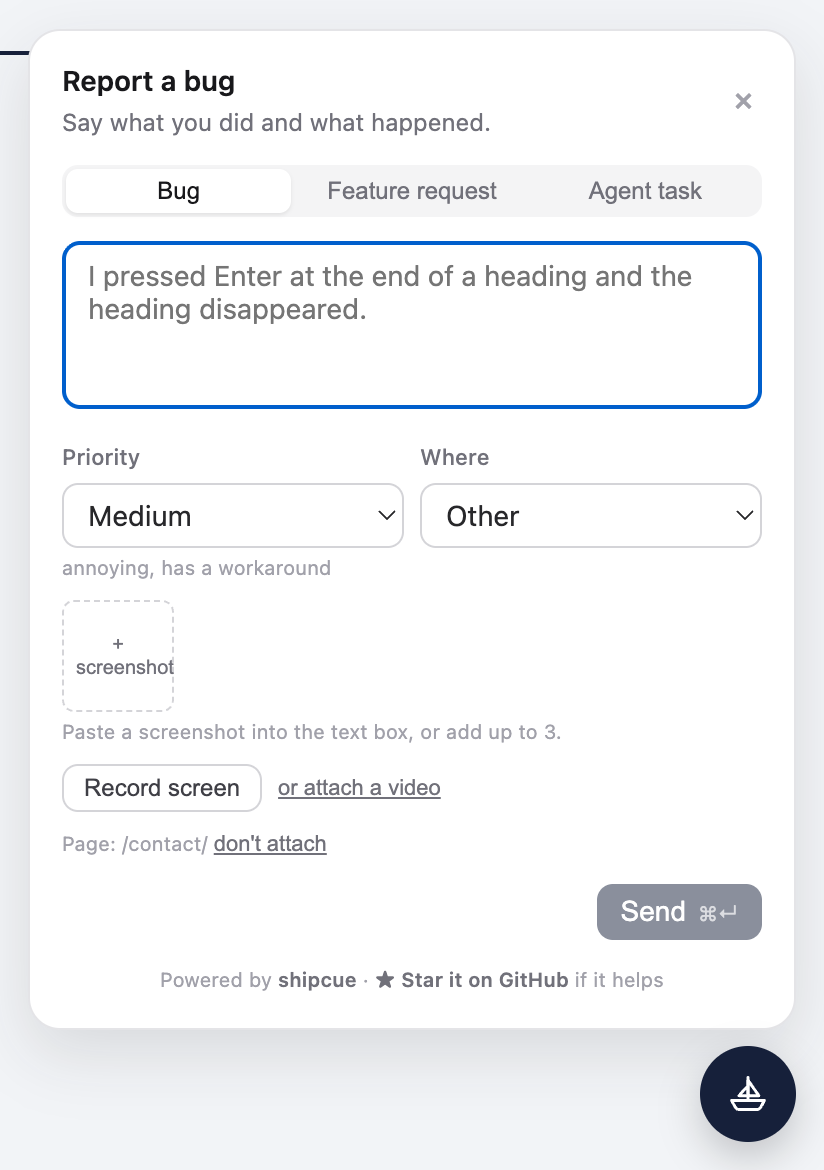
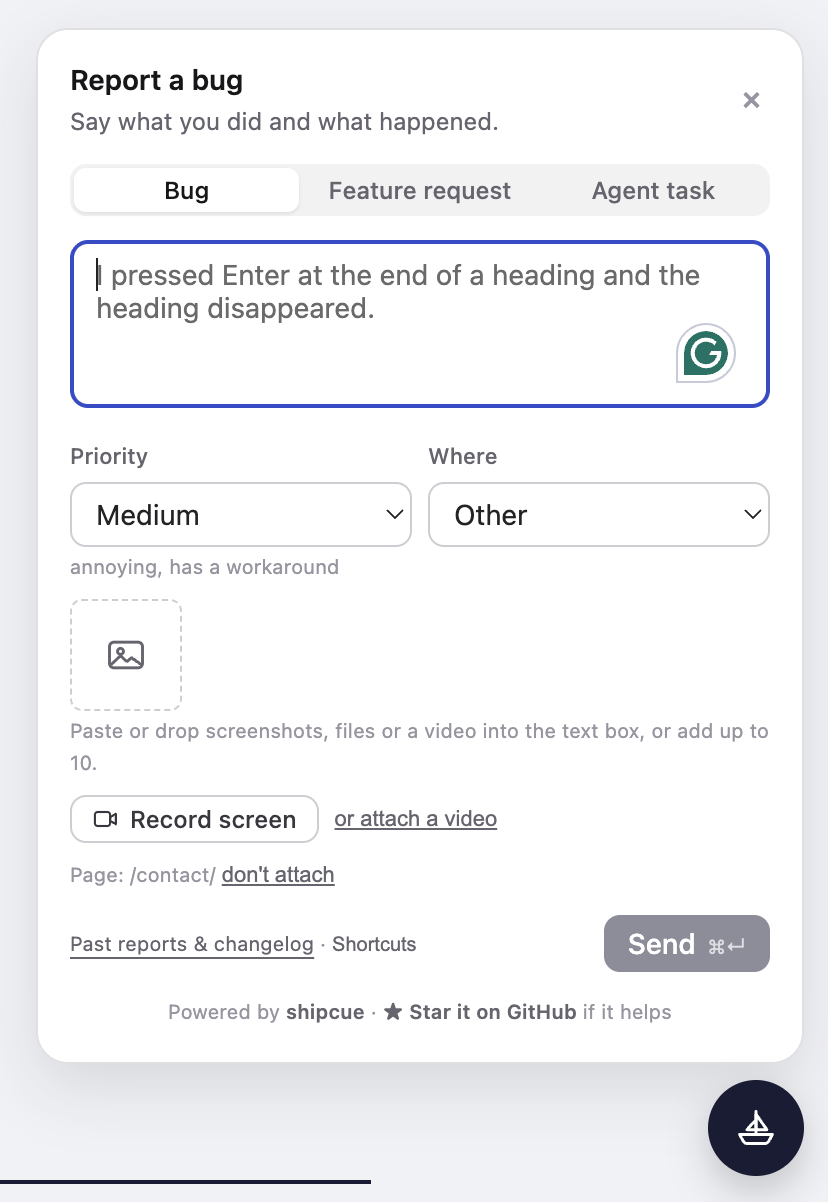
docs: the panel screenshot shows the current panel (report 1a25e20d)

diff --git a/website/docs/index.html b/website/docs/index.html
@@ -78,7 +78,7 @@ export { handler as GET, handler as POST };</code></pre>
   <li>The panel shows the page it will attach, with a "don't attach" link.</li>
 </ul>
 
-<p><img src="/assets/report-button.png" alt="The shipcue panel: Bug, Feature request and Agent task tabs, priority, where, screenshots, screen recording, and a Powered by shipcue line" width="408" style="max-width:100%;height:auto;border-radius:16px;margin-top:8px"></p>
+<p><img src="/assets/report-button.png" alt="The shipcue panel: Bug, Feature request and Agent task tabs, priority, where, paste or drop screenshots, files or a video, screen recording, Past reports &amp; changelog and Shortcuts links, and a Powered by shipcue line" width="408" style="max-width:100%;height:auto;border-radius:16px;margin-top:8px"></p>
 
 <h2>Keyboard shortcuts</h2>
 <p>The panel opens from the keyboard on any page, on the tab you ask for. Whatever is highlighted on the page comes along in an editable <b>Context</b> box (remove it with one click), so you can select a paragraph and turn it into an agent task in one go. When nothing is highlighted, <code>getContext={() =&gt; selectedRowsAsText()}</code> lets your app supply what is selected, like rows or blocks. Agents see it as its own Context section in the task prompt.</p>

diff --git a/website/build.py b/website/build.py
@@ -198,7 +198,7 @@ export { handler as GET, handler as POST };</code></pre>
   <li>The panel shows the page it will attach, with a "don't attach" link.</li>
 </ul>
 
-<p><img src="/assets/report-button.png" alt="The shipcue panel: Bug, Feature request and Agent task tabs, priority, where, screenshots, screen recording, and a Powered by shipcue line" width="408" style="max-width:100%;height:auto;border-radius:16px;margin-top:8px"></p>
+<p><img src="/assets/report-button.png" alt="The shipcue panel: Bug, Feature request and Agent task tabs, priority, where, paste or drop screenshots, files or a video, screen recording, Past reports &amp; changelog and Shortcuts links, and a Powered by shipcue line" width="408" style="max-width:100%;height:auto;border-radius:16px;margin-top:8px"></p>
 
 <h2>Keyboard shortcuts</h2>
 <p>The panel opens from the keyboard on any page, on the tab you ask for. Whatever is highlighted on the page comes along in an editable <b>Context</b> box (remove it with one click), so you can select a paragraph and turn it into an agent task in one go. When nothing is highlighted, <code>getContext={() =&gt; selectedRowsAsText()}</code> lets your app supply what is selected, like rows or blocks. Agents see it as its own Context section in the task prompt.</p>

diff --git a/README.md b/README.md
@@ -4,7 +4,7 @@
 
 <br>
 
-<a href="LICENSE"><img src="https://img.shields.io/badge/license-MIT-16203A?style=flat-square" alt="MIT license"></a> <img src="https://img.shields.io/badge/tests-74%20passing-2E5BFF?style=flat-square" alt="74 tests passing"> <img src="https://img.shields.io/badge/MCP-ready-FFD43B?style=flat-square&labelColor=16203A" alt="MCP ready"> <img src="https://img.shields.io/badge/Postgres-self--hosted-16203A?style=flat-square" alt="Self-hosted on Postgres">
+<a href="LICENSE"><img src="https://img.shields.io/badge/license-MIT-16203A?style=flat-square" alt="MIT license"></a> <img src="https://img.shields.io/badge/tests-132%20passing-2E5BFF?style=flat-square" alt="132 tests passing"> <img src="https://img.shields.io/badge/MCP-ready-FFD43B?style=flat-square&labelColor=16203A" alt="MCP ready"> <img src="https://img.shields.io/badge/Postgres-self--hosted-16203A?style=flat-square" alt="Self-hosted on Postgres">
 
 # shipcue: Bug Reports Your Coding Agents Can Fix
 
@@ -18,7 +18,7 @@
 
 A drop-in bug report and feature request button whose inbox is a queue that people **and coding agents** both work from.
 
-<p align="center"><img src="docs/report-button.png" alt="The shipcue panel: Bug, Feature request and Agent task tabs, priority, where, screenshots, screen recording, Send with ⌘↵, and a Powered by shipcue line" width="420"></p>
+<p align="center"><img src="docs/report-button.png" alt="The shipcue panel: Bug, Feature request and Agent task tabs, priority, where, paste or drop screenshots, files or a video, screen recording, Past reports &amp; changelog and Shortcuts links, Send with ⌘↵, and a Powered by shipcue line" width="420"></p>
 
 Someone in your app clicks the button, says what broke or what they want, pastes a screenshot, and sends. shipcue files it with the page address, browser and a snapshot of app state you choose. Then Claude Code, Codex or a teammate claims the most urgent report, gets a ready-made task prompt, fixes it, and closes it with the PR link.
 
